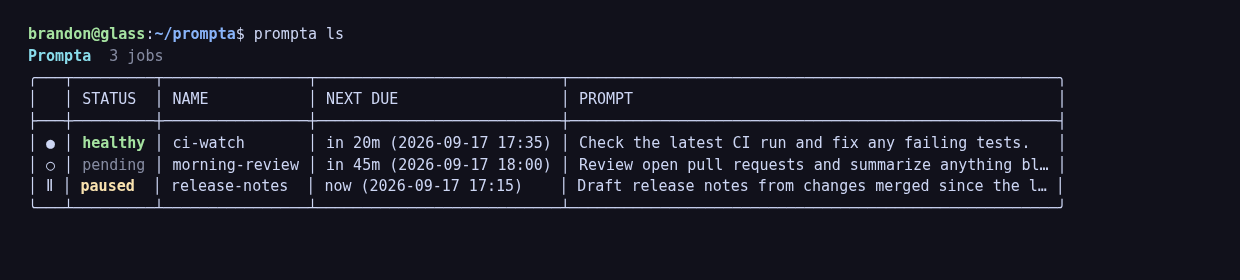
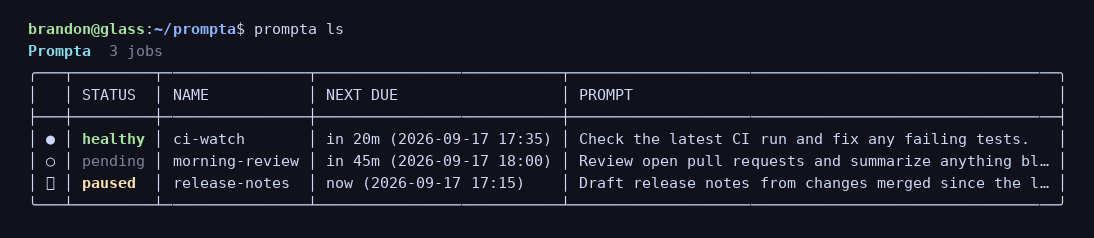
Autogenerate README terminal screenshot

diff --git a/scripts/generate_readme_screenshot.py b/scripts/generate_readme_screenshot.py
@@ -1,0 +1,213 @@
+from __future__ import annotations
+
+import io
+import json
+import os
+import re
+import sys
+import tempfile
+import time
+from contextlib import redirect_stdout
+from datetime import datetime
+from pathlib import Path
+from unittest.mock import patch
+from zoneinfo import ZoneInfo
+
+from PIL import Image, ImageDraw, ImageFont
+
+from prompta import core
+
+ROOT = Path(__file__).resolve().parents[1]
+OUTPUT = ROOT / "docs" / "assets" / "prompta-ls.png"
+FIXED_NOW = datetime(2026, 9, 17, 17, 15, tzinfo=ZoneInfo("Pacific/Auckland")).timestamp()
+ANSI_RE = re.compile(r"\x1b\[([0-9;]*)m")
+BACKGROUND = "#11111b"
+FOREGROUND = "#cdd6f4"
+DIM = "#7f849c"
+COLORS = {
+    31: "#f38ba8",
+    32: "#a6e3a1",
+    33: "#f9e2af",
+    34: "#89b4fa",
+    36: "#89dceb",
+}
+
+
+class TtyBuffer(io.StringIO):
+    def isatty(self) -> bool:
+        return True
+
+
+def _font_path(bold: bool) -> Path:
+    filename = "DejaVuSansMono-Bold.ttf" if bold else "DejaVuSansMono.ttf"
+    candidates = (
+        Path("/usr/share/fonts/truetype/dejavu") / filename,
+        Path("/usr/share/fonts/TTF") / filename,
+    )
+    for candidate in candidates:
+        if candidate.is_file():
+            return candidate
+    raise RuntimeError(f"Could not find {filename}; install the DejaVu Sans Mono font")
+
+
+def _sample_output() -> str:
+    with tempfile.TemporaryDirectory(prefix="prompta-readme-") as temporary:
+        root = Path(temporary)
+        jobs_path = root / "jobs.json"
+        state_path = root / "state.json"
+        core.add_job(
+            jobs_path,
+            "ci-watch",
+            "Check the latest CI run and fix any failing tests.",
+            30 * 60,
+        )
+        core.add_job(
+            jobs_path,
+            "morning-review",
+            "Review open pull requests and summarize anything blocked.",
+            daily_at="09:00",
+        )
+        core.add_job(
+            jobs_path,
+            "release-notes",
+            "Draft release notes from changes merged since the last release.",
+            60 * 60,
+        )
+        state_path.write_text(
+            json.dumps(
+                {
+                    "jobs": {
+                        "ci-watch": {
+                            "last_sent_at": FIXED_NOW - 10 * 60,
+                            "next_due_at_epoch": FIXED_NOW + 20 * 60,
+                            "status": "healthy",
+                        },
+                        "morning-review": {
+                            "initial_due_at_epoch": FIXED_NOW + 45 * 60,
+                        },
+                        "release-notes": {"paused": True},
+                    }
+                },
+                indent=2,
+                sort_keys=True,
+            )
+            + "\n"
+        )
+
+        output = TtyBuffer()
+        environment = {
+            "TERM": os.environ.get("TERM"),
+            "TZ": os.environ.get("TZ"),
+            "NO_COLOR": os.environ.get("NO_COLOR"),
+        }
+        os.environ["TERM"] = "xterm-256color"
+        os.environ["TZ"] = "Pacific/Auckland"
+        os.environ.pop("NO_COLOR", None)
+        if hasattr(time, "tzset"):
+            time.tzset()
+        try:
+            argv = [
+                "prompta",
+                "ls",
+                "--jobs-file",
+                str(jobs_path),
+                "--state",
+                str(state_path),
+            ]
+            with (
+                redirect_stdout(output),
+                patch.object(core.time, "time", return_value=FIXED_NOW),
+                patch.object(sys, "argv", argv),
+            ):
+                core.main()
+        finally:
+            for name, value in environment.items():
+                if value is None:
+                    os.environ.pop(name, None)
+                else:
+                    os.environ[name] = value
+            if hasattr(time, "tzset"):
+                time.tzset()
+
+    prompt = "\x1b[1;32muser@host\x1b[0m:\x1b[1;34m~/prompta\x1b[0m$ prompta ls\n"
+    return prompt + output.getvalue()
+
+
+def _ansi_segments(line: str) -> list[tuple[str, bool, bool, int | None]]:
+    segments: list[tuple[str, bool, bool, int | None]] = []
+    bold = False
+    dim = False
+    foreground: int | None = None
+    position = 0
+    for match in ANSI_RE.finditer(line):
+        if match.start() > position:
+            segments.append((line[position : match.start()], bold, dim, foreground))
+        codes = [int(value) if value else 0 for value in match.group(1).split(";")]
+        for code in codes:
+            if code == 0:
+                bold = False
+                dim = False
+                foreground = None
+            elif code == 1:
+                bold = True
+            elif code == 2:
+                dim = True
+            elif code == 22:
+                bold = False
+                dim = False
+            elif 30 <= code <= 37:
+                foreground = code
+            elif code == 39:
+                foreground = None
+        position = match.end()
+    if position < len(line):
+        segments.append((line[position:], bold, dim, foreground))
+    return segments
+
+
+def _render(output: str) -> None:
+    regular = ImageFont.truetype(str(_font_path(False)), 15)
+    bold_font = ImageFont.truetype(str(_font_path(True)), 15)
+    lines = output.rstrip().splitlines()
+    parsed = [_ansi_segments(line) for line in lines]
+    line_height = 22
+    padding_x = 28
+    padding_y = 20
+
+    scratch = Image.new("RGB", (1, 1))
+    scratch_draw = ImageDraw.Draw(scratch)
+    content_width = max(
+        sum(
+            scratch_draw.textlength(text, font=bold_font if is_bold else regular)
+            for text, is_bold, _, _ in segments
+        )
+        for segments in parsed
+    )
+    image = Image.new(
+        "RGB",
+        (int(content_width) + padding_x * 2, len(lines) * line_height + padding_y * 2),
+        BACKGROUND,
+    )
+    draw = ImageDraw.Draw(image)
+
+    y = padding_y
+    for segments in parsed:
+        x = padding_x
+        for text, is_bold, is_dim, foreground in segments:
+            font = bold_font if is_bold else regular
+            color = DIM if is_dim else COLORS.get(foreground, FOREGROUND)
+            draw.text((x, y), text, font=font, fill=color)
+            x += draw.textlength(text, font=font)
+        y += line_height
+
+    OUTPUT.parent.mkdir(parents=True, exist_ok=True)
+    image.save(OUTPUT, optimize=True)
+    print(f"Generated {OUTPUT.relative_to(ROOT)}")
+
+
+def main() -> None:
+    _render(_sample_output())
+
+
+if __name__ == "__main__":
+    main()

diff --git a/README.md b/README.md
@@ -31,6 +31,13 @@ compact, colour-aware terminal UI. Status icons are `●` healthy, `✗` failing
 
 ![Sample output from `prompta ls`](docs/assets/prompta-ls.png)
 
+The screenshot is generated from the real `prompta ls` formatter with isolated,
+deterministic sample jobs:
+
+```bash
+uv run python scripts/generate_readme_screenshot.py
+```
+
 ```bash
 # List jobs
 uv run prompta ls
@@ -84,8 +91,9 @@ The unit file is `systemd/prompta.service`.
 ```bash
 uv sync --locked
 uv run pytest
-uv run ruff check src tests
+uv run ruff check src tests scripts
 uv run ty check
+uv run python scripts/generate_readme_screenshot.py
 ```
 
 ## Upstream
